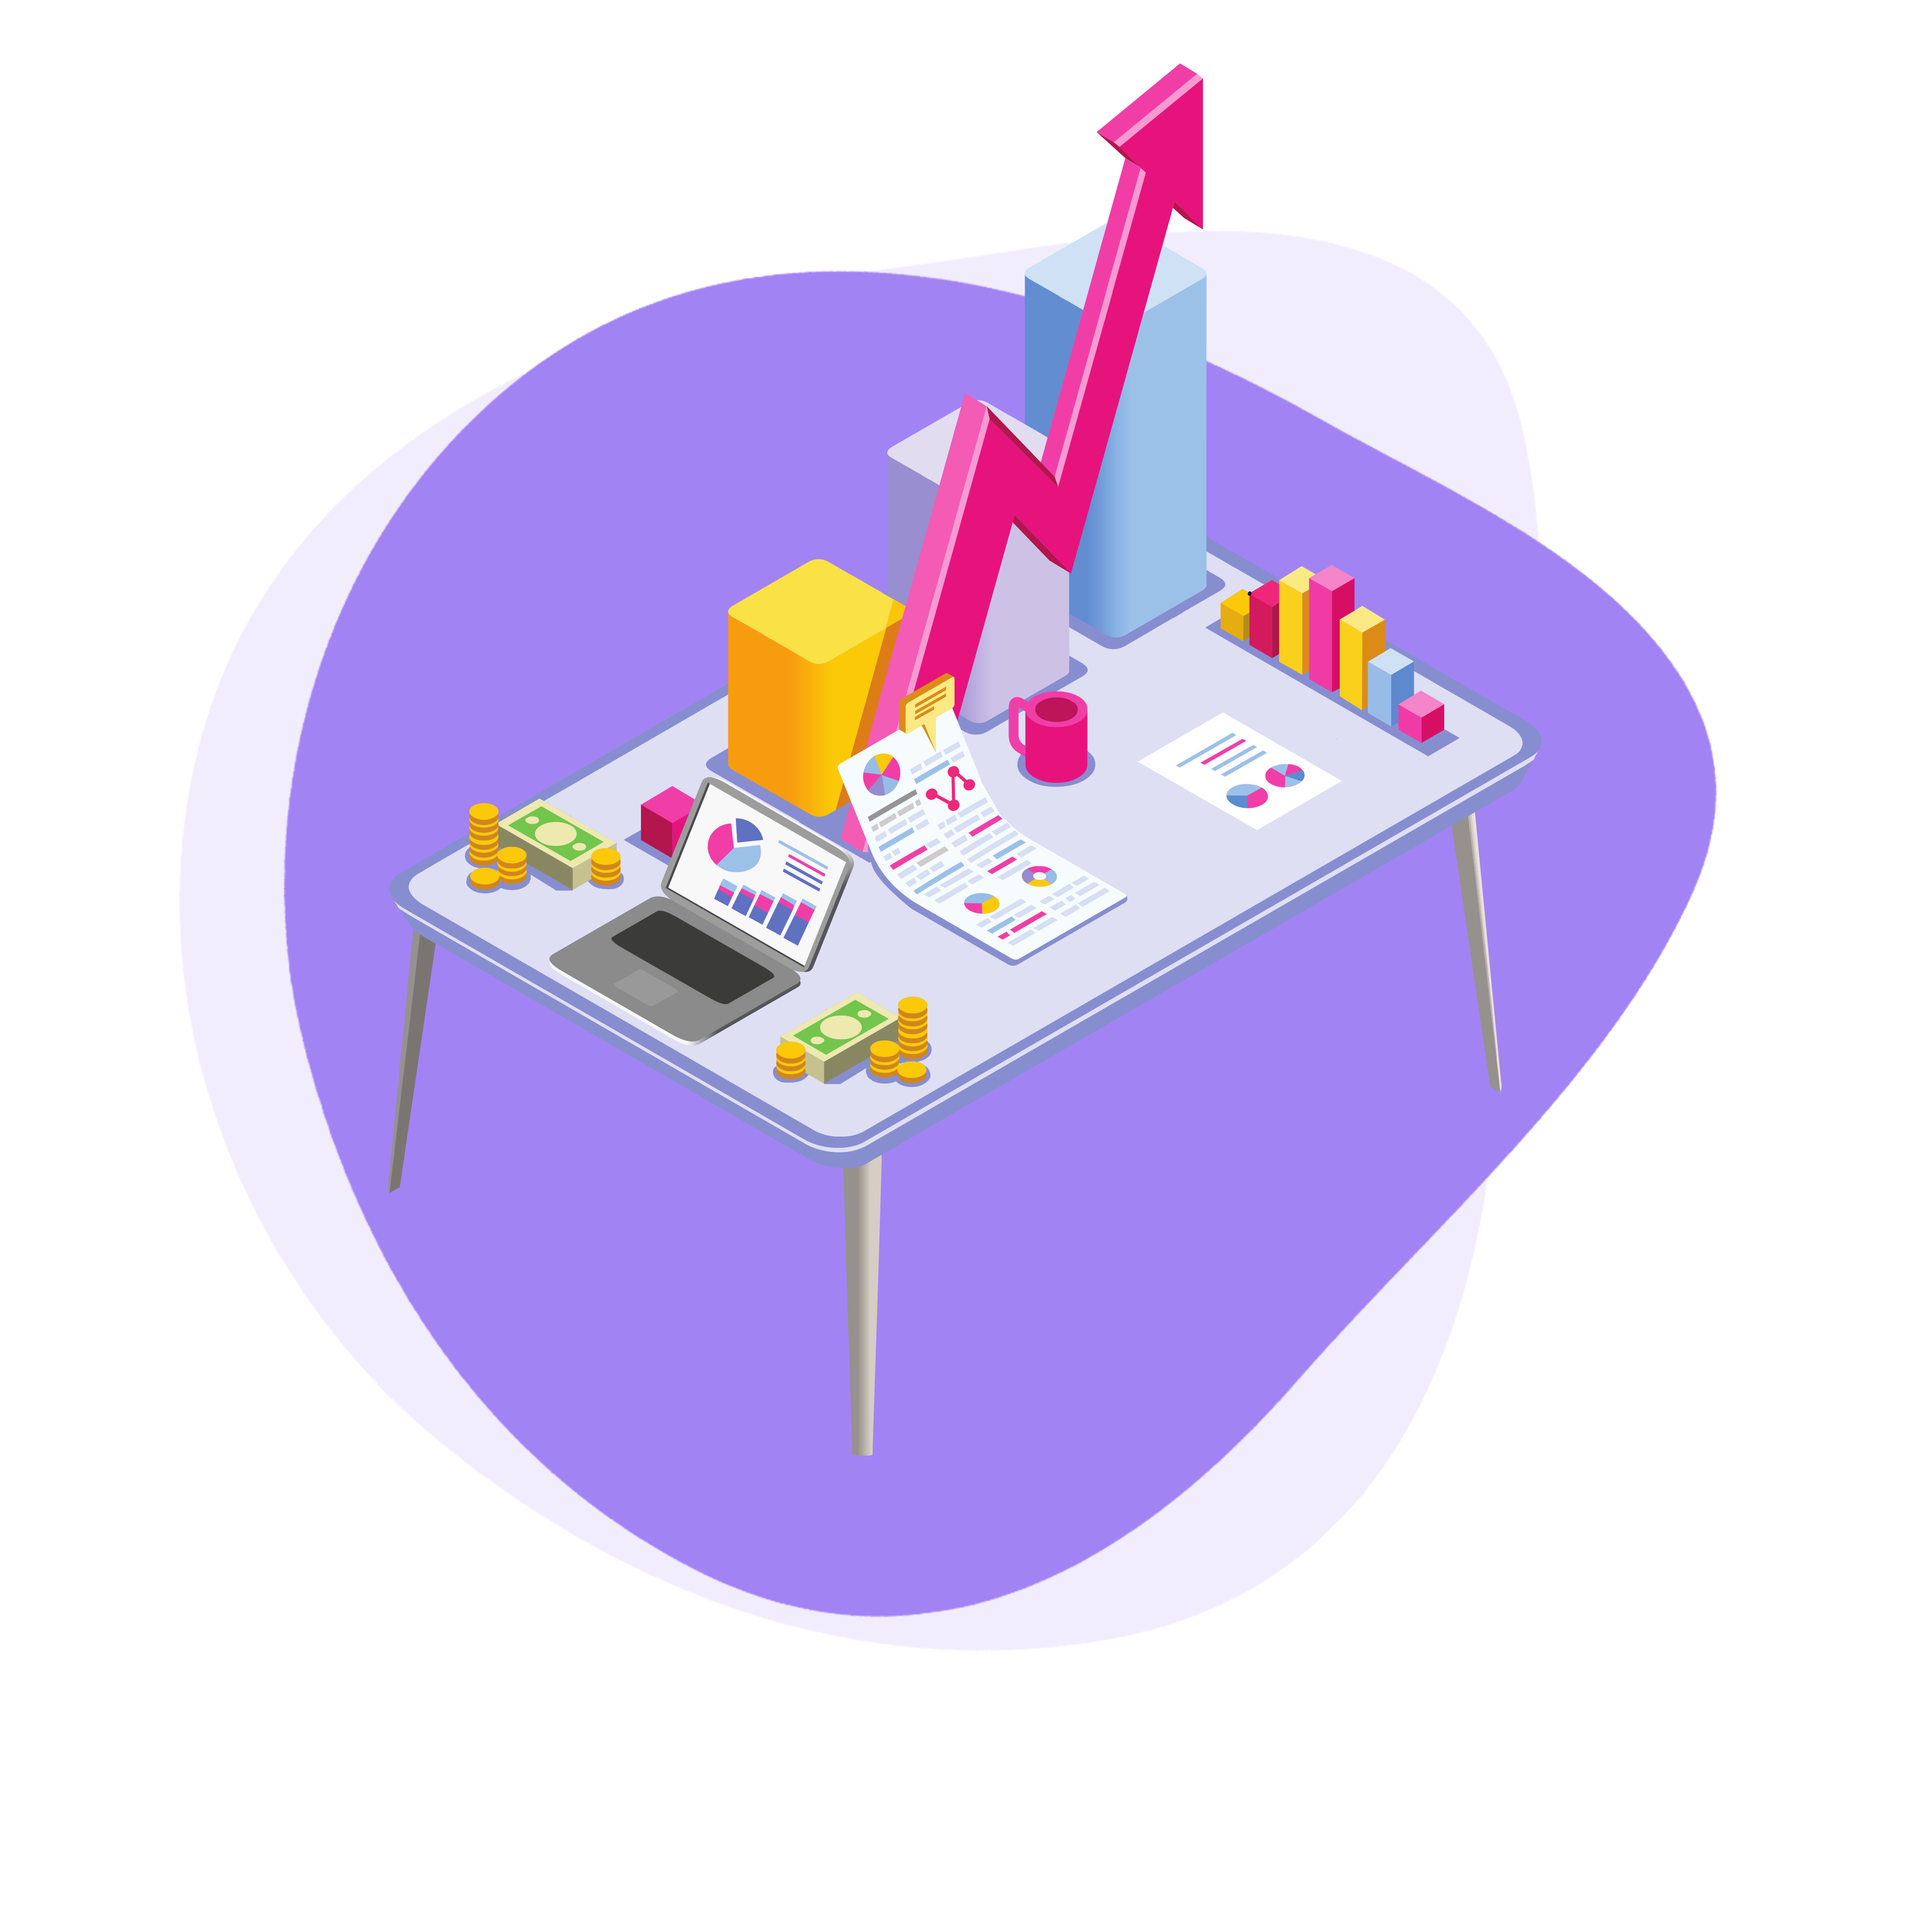
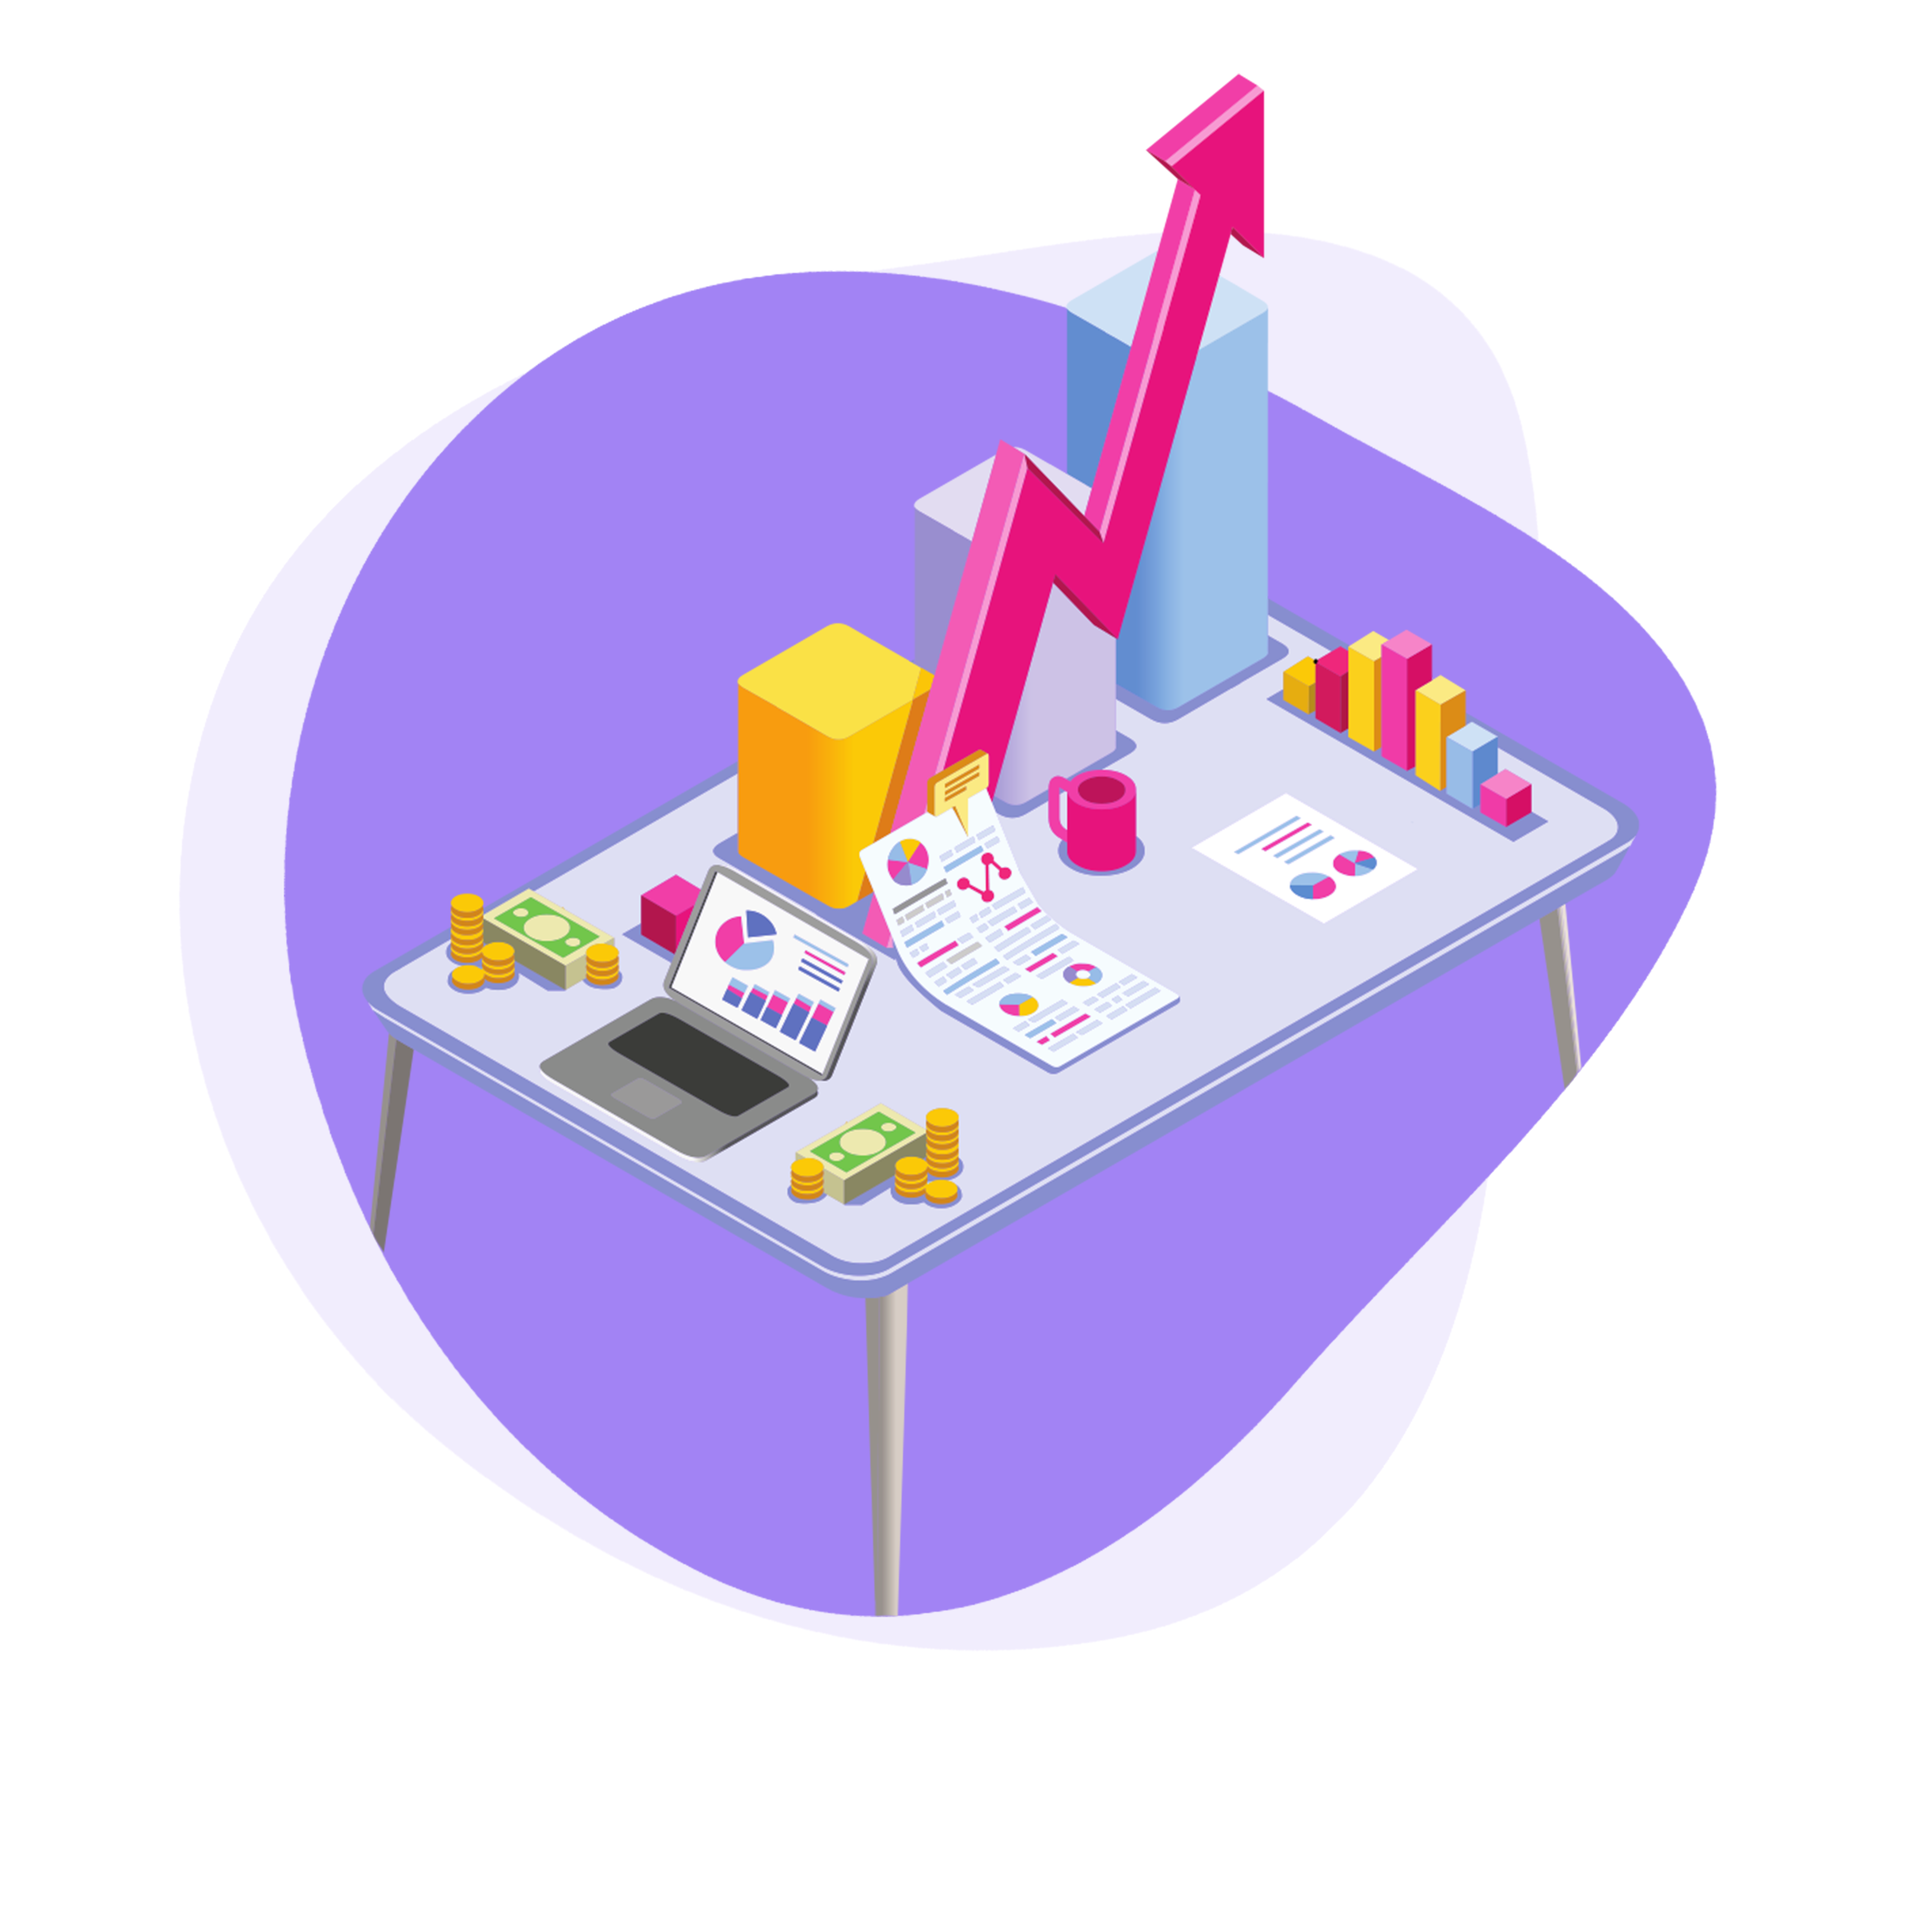
headerimage

Changed region(s): [[0.1863, 0.0311, 0.8694, 0.8384]]

diff --git a/src/components/SEOService.jsx b/src/components/SEOService.jsx
@@ -8,7 +8,7 @@ const SEOService = () => {
             <h1 className='md:col-span-2 text-2xl font-bold'>
                 Process
             </h1>
-            <div className='flex flex-col items-start justify-start gap-2 text-justify md:border-r border-gray-300'>
+            <div className='flex flex-col items-start justify-start gap-2 text-justify md:border-r border-gray-300 md:pr-8'>
                 <div className='p-2 rounded-md bg-[#e8d7ff]'>
                     <svg xmlns="http://www.w3.org/2000/svg" fill="none" viewBox="0 0 24 24" strokeWidth={1.5} stroke="currentColor"
                         className="w-6 h-6">
@@ -55,7 +55,7 @@ const SEOService = () => {
                 </p>
             </div>
 
-            <div className='flex flex-col items-start justify-start gap-2 text-justify md:border-r border-gray-300'>
+            <div className='flex flex-col items-start justify-start gap-2 text-justify md:border-r border-gray-300 md:pr-8'>
                 <div className='p-2 rounded-md bg-[#E3E9FF]'>
                     <CalendarCheck size={24} />
                 </div>

diff --git a/src/sections/Header.jsx b/src/sections/Header.jsx
@@ -1,6 +1,6 @@
 import { Button } from "@chakra-ui/react";
 import React from "react";
-import mainimage_desk from "../assets/mainimage_desk.svg";
+import mainimage_desk from "../assets/mainimage.png";
 
 const Header = () => {
   return (
@@ -11,8 +11,8 @@ const Header = () => {
           <span className="text-[#AB72D8]">stop wasting</span> {""}
           money with<span className="text-[#AB72D8]"> marketing </span> that doesnt work?
         </h1>
-        <div className="m-auto relative">
-          <img src={mainimage_desk} alt="" className="max-w-[348px] md:max-w-[29rem] mt-16 lg:mt-0" />
+        <div className="m-auto max-w-[348px] md:max-w-[29rem] ">
+          <img src={mainimage_desk} alt="" className="mt-16 lg:mt-0" />
         </div>
       </div>
       <p className="font-normal text-2xl leading-[23px] max-w-[52rem] mt-2">

diff --git a/src/components/NavBar.jsx b/src/components/NavBar.jsx
@@ -32,7 +32,7 @@ const NavBar = () => {
       <ul className="hidden md:flex items-center justify-center gap-8 text-[#011238] font-bold text-lg">
         <Link to="/">
           <li>Home</li>
-        </Link>
+        </Link>{/* 
         <Link to="/Services">
           <li>Services</li>
         </Link>
@@ -41,7 +41,7 @@ const NavBar = () => {
         </Link>
         <Link to="/ContactUs">
           <li>Contact Us</li>
-        </Link>
+        </Link> */}
       </ul>
       <div className="flex md:hidden">
         <IconButton
